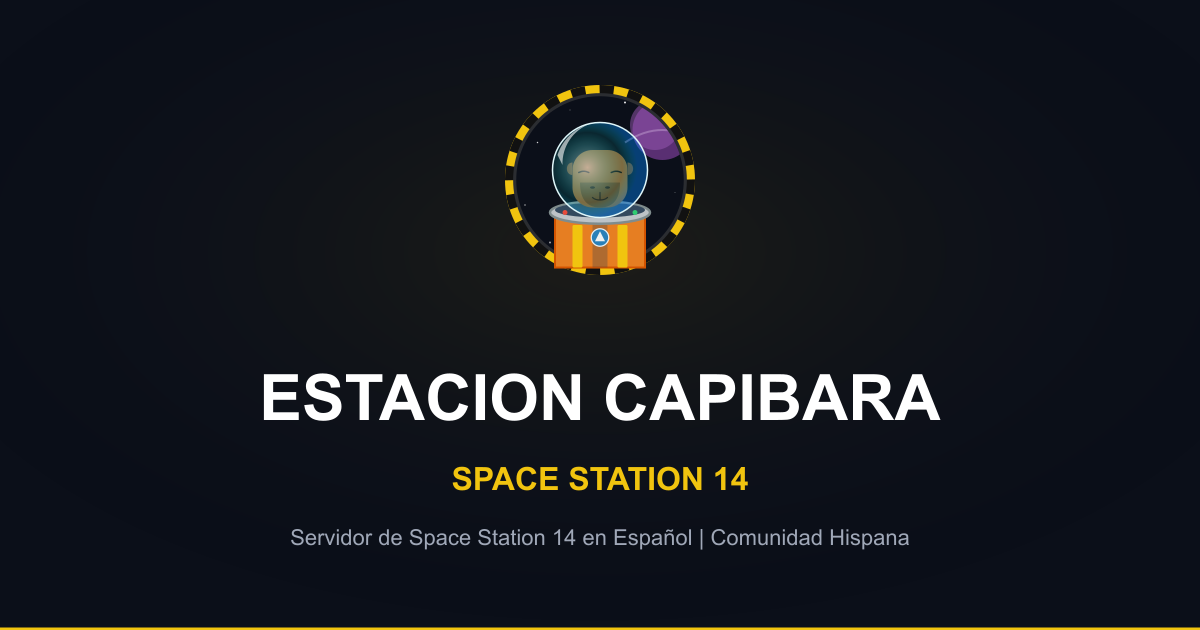
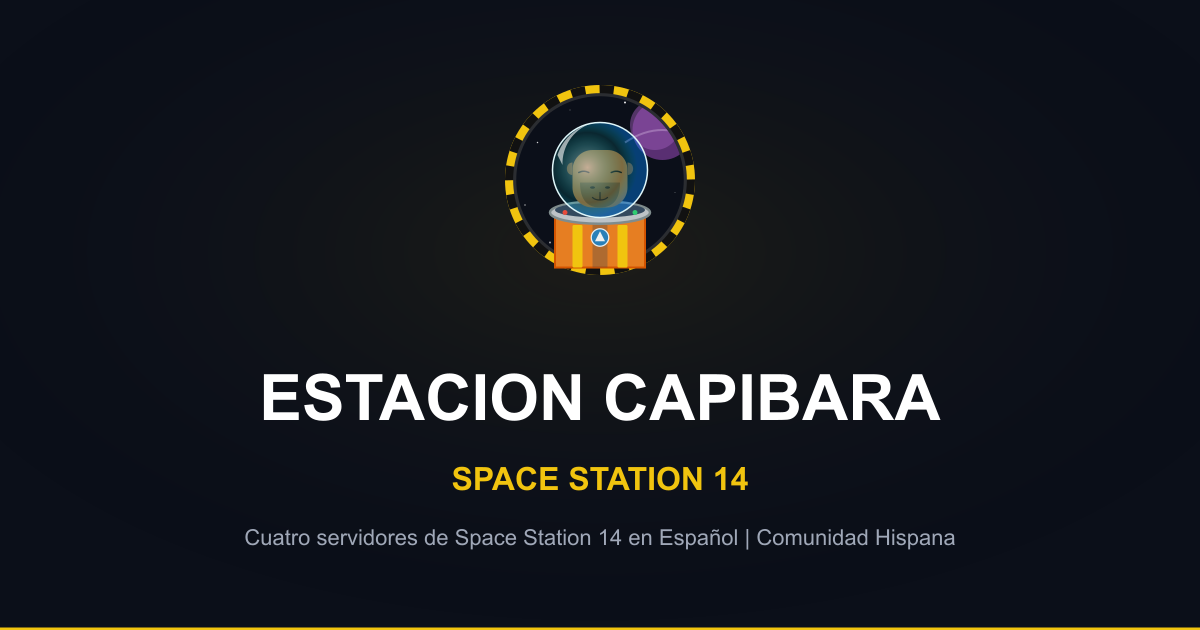
feat: extend SEO surface to all four servers
Sitemap gains the server pages plus both new wikis (465 URLs).
generate-og-image.mjs now renders one accent-tinted OG variant per
server, referenced by the server pages and the new wiki indexes.
llms.txt and the landing VideoGame schema describe the four-server
community.

Changed region(s): [[0.185, 0.8444, 0.8017, 0.8746]]

diff --git a/src/app/sitemap.ts b/src/app/sitemap.ts
@@ -2,6 +2,9 @@ import type { MetadataRoute } from "next";
 import { SITE_URL, LAST_CONTENT_UPDATE } from "@/lib/constants";
 import { allGuideSlugs } from "@/data/guides";
 import { allMonolithGuideSlugs } from "@/data/monolith-guides";
+import { allMarinesGuideSlugs } from "@/data/marines-guides";
+import { allScpGuideSlugs } from "@/data/scp-guides";
+import { LIVE_SERVERS } from "@/data/servers";
 import { SEO_PAGE_SLUGS } from "@/data/seo-pages";
 import { MONOLITH_SEO_PAGES } from "@/data/monolith-seo-pages";
 import { BLOG_POSTS } from "@/data/blog-posts";
@@ -20,6 +23,23 @@ export default function sitemap(): MetadataRoute.Sitemap {
       lastModified: new Date(LAST_CONTENT_UPDATE),
     })
   );
+
+  const marinesWikiPages: MetadataRoute.Sitemap = allMarinesGuideSlugs.map(
+    (slug) => ({
+      url: `${SITE_URL}/wiki-marines/${slug}/`,
+      lastModified: new Date(LAST_CONTENT_UPDATE),
+    })
+  );
+
+  const scpWikiPages: MetadataRoute.Sitemap = allScpGuideSlugs.map((slug) => ({
+    url: `${SITE_URL}/wiki-scp/${slug}/`,
+    lastModified: new Date(LAST_CONTENT_UPDATE),
+  }));
+
+  const serverPages: MetadataRoute.Sitemap = LIVE_SERVERS.map((server) => ({
+    url: `${SITE_URL}/${server.slug}/`,
+    lastModified: new Date(LAST_CONTENT_UPDATE),
+  }));
 
   const seoPages: MetadataRoute.Sitemap = SEO_PAGE_SLUGS.map((slug) => ({
     url: `${SITE_URL}/${slug}/`,
@@ -52,6 +72,14 @@ export default function sitemap(): MetadataRoute.Sitemap {
       lastModified: new Date(LAST_CONTENT_UPDATE),
     },
     {
+      url: `${SITE_URL}/wiki-marines/`,
+      lastModified: new Date(LAST_CONTENT_UPDATE),
+    },
+    {
+      url: `${SITE_URL}/wiki-scp/`,
+      lastModified: new Date(LAST_CONTENT_UPDATE),
+    },
+    {
       url: `${SITE_URL}/blog/`,
       lastModified: new Date(LAST_CONTENT_UPDATE),
     },
@@ -63,10 +91,13 @@ export default function sitemap(): MetadataRoute.Sitemap {
       url: `${SITE_URL}/privacidad/`,
       lastModified: new Date(LAST_CONTENT_UPDATE),
     },
+    ...serverPages,
     ...seoPages,
     ...monolithSeoPages,
     ...blogPages,
     ...wikiPages,
     ...monolithWikiPages,
+    ...marinesWikiPages,
+    ...scpWikiPages,
   ];
 }

diff --git a/src/lib/metadata.ts b/src/lib/metadata.ts
@@ -7,7 +7,7 @@ export function serverPageMetadata(server: ServerDescriptor): Metadata {
   const description = `${server.description} ${server.lineage}. Busca "${server.searchTerm}" en el launcher de Space Station 14.`;
   const canonical = `${SITE_URL}/${server.slug}/`;
   const ogImage = {
-    url: `${SITE_URL}/branding/og-image.png`,
+    url: `${SITE_URL}/branding/og-${server.slug}.png`,
     width: 1200,
     height: 630,
     alt: title,
@@ -99,10 +99,10 @@ export const siteMetadata: Metadata = {
 export const jsonLdWebsite = {
   "@context": "https://schema.org",
   "@type": "VideoGame",
-  name: "Estación Capibara - Servidor Español de SS14",
+  name: "Estación Capibara - Servidores Españoles de SS14",
   alternateName: ["Estación Capibara", "Servidor Español de SS14", "SS14 en Español"],
   description:
-    "Servidor español de Space Station 14. Jugamos viernes, sábados y domingos con rondas normales y eventos especiales. Sistema de economía con Spesos, 30+ roles, 8 departamentos y objetivos cooperativos totalmente en español.",
+    "Comunidad española de Space Station 14 con cuatro servidores: Estación Capibara (estación clásica), Capibara Marines (Colonial Marines), Capibara SCP (Fundación SCP) y Capibara Monolith (naves y frontera). Jugamos viernes, sábados y domingos, totalmente en español.",
   url: SITE_URL,
   genre: ["Roleplay", "Simulation", "Multiplayer"],
   gamePlatform: "PC",

diff --git a/src/app/wiki-marines/page.tsx b/src/app/wiki-marines/page.tsx
@@ -25,7 +25,7 @@ export const metadata: Metadata = {
     url: `${SITE_URL}/wiki-marines/`,
     type: "website",
     locale: "es_ES",
-    images: [{ url: `${SITE_URL}/branding/og-image.png`, width: 1200, height: 630 }],
+    images: [{ url: `${SITE_URL}/branding/og-marines.png`, width: 1200, height: 630 }],
   },
 };
 

diff --git a/src/app/wiki-scp/page.tsx b/src/app/wiki-scp/page.tsx
@@ -25,7 +25,7 @@ export const metadata: Metadata = {
     url: `${SITE_URL}/wiki-scp/`,
     type: "website",
     locale: "es_ES",
-    images: [{ url: `${SITE_URL}/branding/og-image.png`, width: 1200, height: 630 }],
+    images: [{ url: `${SITE_URL}/branding/og-scp.png`, width: 1200, height: 630 }],
   },
 };
 
